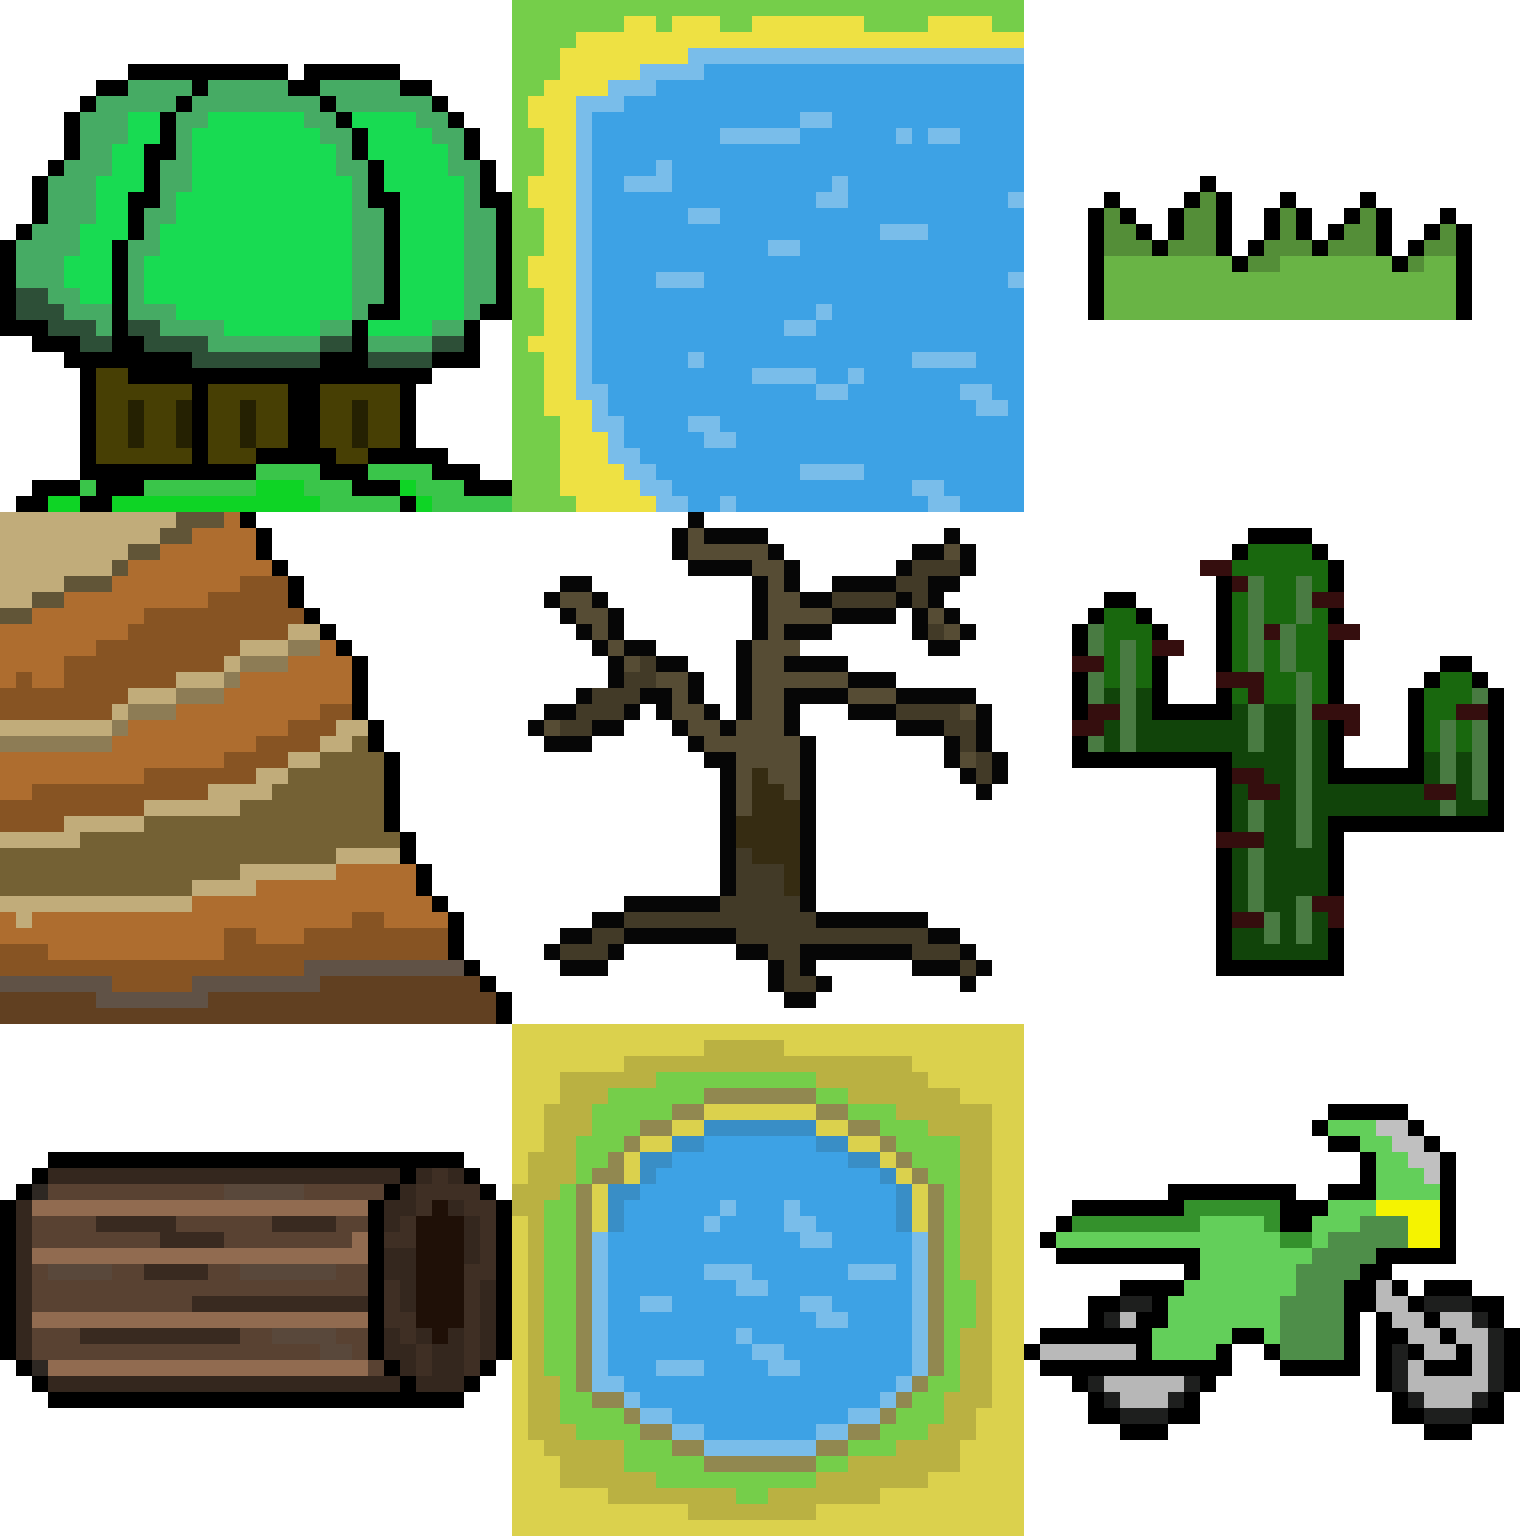
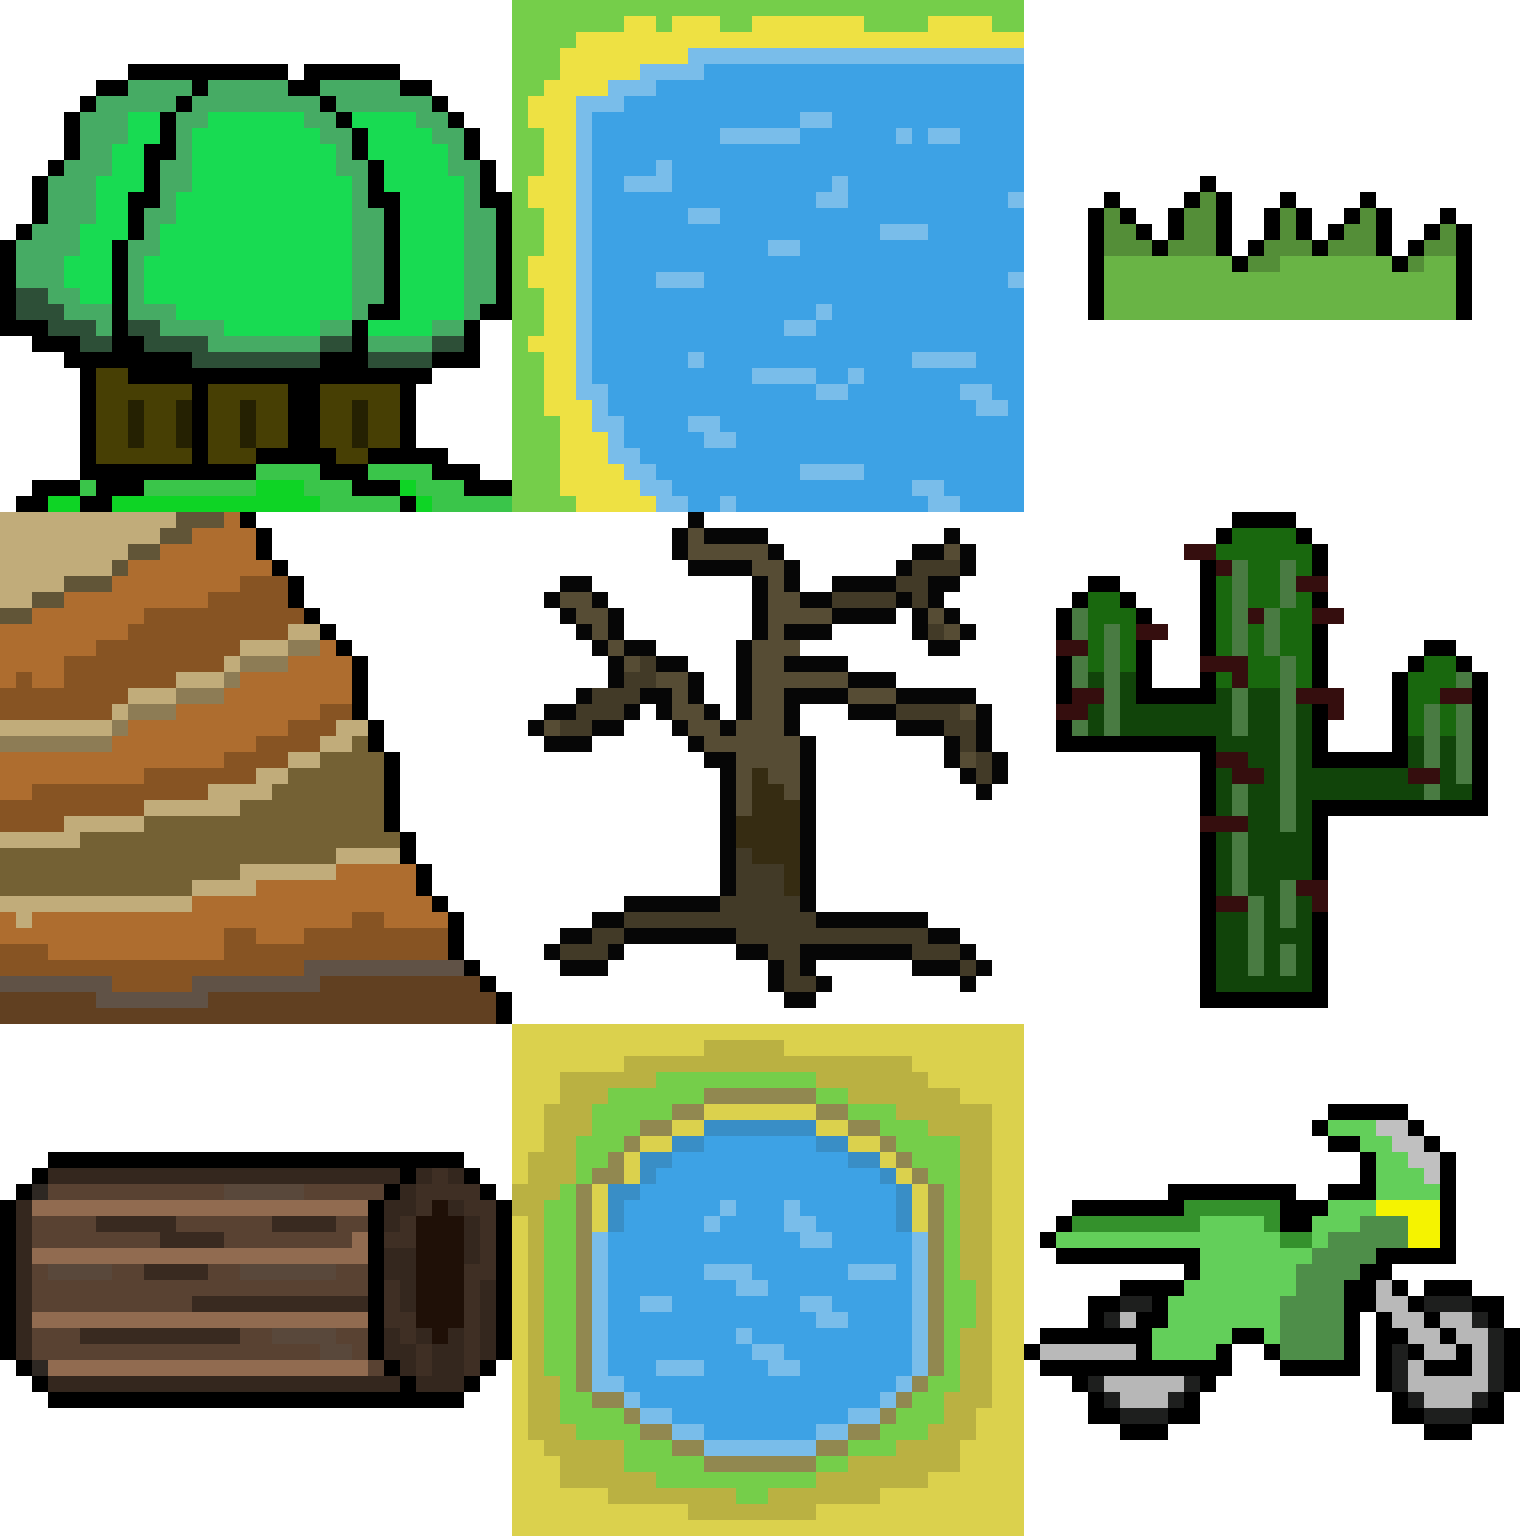
Level 3 bois

Changed region(s): [[0.6875, 0.3125, 1.0, 0.6562]]

diff --git a/Gabriel.c b/Gabriel.c
@@ -446,6 +446,7 @@ void render_game_background(int currentLevel)
 #pragma endregion
 		break;
 	case 1:
+		#pragma region Level 2 Objects
 		CP_Settings_Tint(CP_Color_Create(0, 0, 0, 75));
 		RenderWithAlphaChanged(backgroundSpriteSheet, backgroundArray[2], CP_System_GetWindowWidth() * 0.5,
 			CP_System_GetWindowHeight() * 0.5, CP_System_GetWindowWidth(), CP_System_GetWindowHeight(), 255);
@@ -522,12 +523,70 @@ void render_game_background(int currentLevel)
 		RenderNormal(environmentObjectsSpriteSheet, environmentObjectArray[9],
 			CP_System_GetWindowWidth() * 0.8, CP_System_GetWindowHeight() * 0.8,
 			64 * scalingFactor, 64 * scalingFactor);
-
+#pragma endregion
 		break;
 	case 2:
 		CP_Settings_Tint(CP_Color_Create(0, 0, 0, 75));
 		RenderWithAlphaChanged(backgroundSpriteSheet, backgroundArray[3], CP_System_GetWindowWidth() * 0.5,
 			CP_System_GetWindowHeight() * 0.5, CP_System_GetWindowWidth(), CP_System_GetWindowHeight(), 200);
+		RenderNormal(nonGridEnvironmentObjectsSpriteSheet, nonGridEnvironmentObjectsArray[3],
+			CP_System_GetWindowWidth() * 0.15, CP_System_GetWindowHeight() * 0.19,
+			300* scalingFactor, 300 * scalingFactor, 255);
+		RenderNormal(nonGridEnvironmentObjectsSpriteSheet, nonGridEnvironmentObjectsArray[7],
+			CP_System_GetWindowWidth() * 0.9, CP_System_GetWindowHeight() * 0.65,
+			200 * scalingFactor, 200 * scalingFactor);
+
+		RenderNormal(nonGridEnvironmentObjectsSpriteSheet, nonGridEnvironmentObjectsArray[5],
+			CP_System_GetWindowWidth() * 0.15, CP_System_GetWindowHeight() * 0.5,
+			64 * scalingFactor, 64 * scalingFactor);
+		RenderNormal(nonGridEnvironmentObjectsSpriteSheet, nonGridEnvironmentObjectsArray[5],
+			CP_System_GetWindowWidth() * 0.25, CP_System_GetWindowHeight() * 0.65,
+			64 * scalingFactor, 64 * scalingFactor);
+		RenderNormal(nonGridEnvironmentObjectsSpriteSheet, nonGridEnvironmentObjectsArray[5],
+			CP_System_GetWindowWidth() * 0.2, CP_System_GetWindowHeight() * 0.85,
+			64 * scalingFactor, 64 * scalingFactor);
+		RenderNormal(nonGridEnvironmentObjectsSpriteSheet, nonGridEnvironmentObjectsArray[5],
+			CP_System_GetWindowWidth() * 0.7, CP_System_GetWindowHeight() * 0.2,
+			64 * scalingFactor, 64 * scalingFactor);
+		RenderNormal(nonGridEnvironmentObjectsSpriteSheet, nonGridEnvironmentObjectsArray[5],
+			CP_System_GetWindowWidth() * 0.75, CP_System_GetWindowHeight() * 0.4,
+			64 * scalingFactor, 64 * scalingFactor);
+		RenderNormal(nonGridEnvironmentObjectsSpriteSheet, nonGridEnvironmentObjectsArray[5],
+			CP_System_GetWindowWidth() * 0.8, CP_System_GetWindowHeight() * 0.85,
+			64 * scalingFactor, 64 * scalingFactor);
+		RenderNormal(nonGridEnvironmentObjectsSpriteSheet, nonGridEnvironmentObjectsArray[5],
+			CP_System_GetWindowWidth() * 0.7, CP_System_GetWindowHeight() * 0.65,
+			64 * scalingFactor, 64 * scalingFactor);
+
+		RenderNormal(environmentObjectsSpriteSheet, environmentObjectArray[9],
+			CP_System_GetWindowWidth() * 0.5, CP_System_GetWindowHeight() * 0.8,
+			64 * scalingFactor, 64 * scalingFactor);
+		RenderNormal(environmentObjectsSpriteSheet, environmentObjectArray[9],
+			CP_System_GetWindowWidth() * 0.65, CP_System_GetWindowHeight() * 0.5,
+			64 * scalingFactor, 64 * scalingFactor);
+		RenderNormal(environmentObjectsSpriteSheet, environmentObjectArray[9],
+			CP_System_GetWindowWidth() * 0.35, CP_System_GetWindowHeight() * 0.9,
+			64 * scalingFactor, 64 * scalingFactor);
+		RenderNormal(environmentObjectsSpriteSheet, environmentObjectArray[9],
+			CP_System_GetWindowWidth() * 0.4, CP_System_GetWindowHeight() * 0.1,
+			64 * scalingFactor, 64 * scalingFactor);
+		RenderNormal(environmentObjectsSpriteSheet, environmentObjectArray[9],
+			CP_System_GetWindowWidth() * 0.9, CP_System_GetWindowHeight() * 0.9,
+			64 * scalingFactor, 64 * scalingFactor);
+
+		RenderNormal(environmentObjectsSpriteSheet, environmentObjectArray[8],
+			CP_System_GetWindowWidth() * 0.6, CP_System_GetWindowHeight() * 0.1,
+			64 * scalingFactor, 64 * scalingFactor);
+		RenderNormal(environmentObjectsSpriteSheet, environmentObjectArray[8],
+			CP_System_GetWindowWidth() * 0.25, CP_System_GetWindowHeight() * 0.1,
+			64 * scalingFactor, 64 * scalingFactor);
+		RenderNormal(environmentObjectsSpriteSheet, environmentObjectArray[8],
+			CP_System_GetWindowWidth() * 0.2, CP_System_GetWindowHeight() * 0.4,
+			64 * scalingFactor, 64 * scalingFactor);
+		RenderNormal(environmentObjectsSpriteSheet, environmentObjectArray[8],
+			CP_System_GetWindowWidth() * 0.15, CP_System_GetWindowHeight() * 0.4,
+			64 * scalingFactor, 64 * scalingFactor);
+
 		break;
 	case 3:
 		CP_Settings_Tint(CP_Color_Create(0, 0, 0, 75));

diff --git a/ZhengWei.c b/ZhengWei.c
@@ -297,7 +297,12 @@ void environment_init(LevelData* LevelX) {
 		init_environment_object(4, 2, 2, LevelX);
 		break;
 	case 2:
-		init_environment_object(0, 2, 2, LevelX);
+		init_environment_object(0, 3, 3, LevelX);
+		init_environment_object(1, 3, 4, LevelX);
+		init_environment_object(2, 2, 1, LevelX);
+		init_environment_object(3, 5, 5, LevelX);
+		init_environment_object(4, 2, 2, LevelX);
+		init_environment_object(5, 4, 0, LevelX);
 		break;
 	case 3:
 		init_environment_object(0, 2, 2, LevelX);
@@ -544,10 +549,10 @@ void level3_init(void) {
 			exit_to_desktop();
 		}
 	}
-	Level[2].spawnRow = 0;
-	Level[2].spawnCol = (gameGridCols - 1) / 2;
-	Level[2].exitRow = gameGridRows - 1;
-	Level[2].exitCol = (gameGridCols - 1) / 2;
+	Level[2].spawnRow = gameGridRows - 1;
+	Level[2].spawnCol = (gameGridCols - 1);
+		Level[2].exitRow = 0;
+		Level[2].exitCol = 0;
 	Level[2].health = 100;
 	Level[2].phantomQuartz = 50;
 	Level[2].goldQuartz = 0;
@@ -585,7 +590,7 @@ void level4_init(void) {
 		}
 	}
 	Level[3].spawnRow = 0;
-	Level[3].spawnCol = (gameGridCols - 1) / 2;
+	Level[3].spawnCol = 0;
 	Level[3].exitRow = gameGridRows - 1;
 	Level[3].exitCol = (gameGridCols - 1) / 2;
 	Level[3].health = 100;
@@ -627,7 +632,7 @@ void level5_init(void) {
 	Level[4].spawnRow = 0;
 	Level[4].spawnCol = (gameGridCols - 1) / 2;
 	Level[4].exitRow = gameGridRows - 1;
-	Level[4].exitCol = (gameGridCols - 1) / 2;
+	Level[4].exitCol = (gameGridCols - 1);
 	Level[4].health = 100;
 	Level[4].phantomQuartz = 50;
 	Level[4].goldQuartz = 0;

diff --git a/game.h b/game.h
@@ -7,7 +7,7 @@
 #define LEVEL1_ROWS 7
 #define LEVEL2_COLS 6
 #define LEVEL2_ROWS 7
-#define LEVEL3_COLS 3
+#define LEVEL3_COLS 6
 #define LEVEL3_ROWS 7
 #define LEVEL4_COLS 3
 #define LEVEL4_ROWS 7
